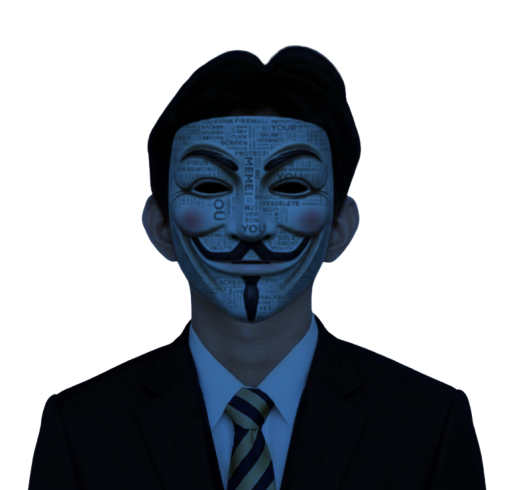
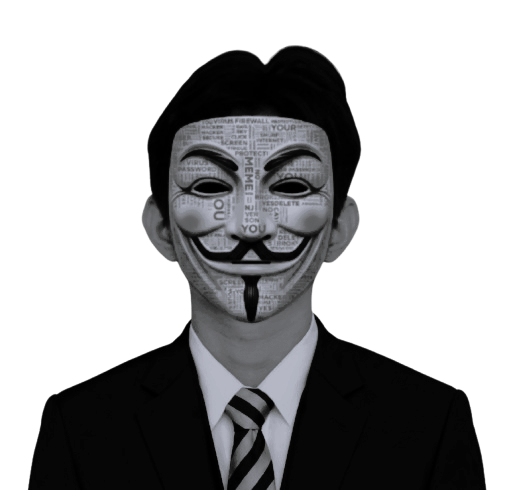
update css dan foto-hecker.png

Changed region(s): [[0.2652, 0.2143, 0.7073, 1.0]]

diff --git a/style.css b/style.css
@@ -452,13 +452,13 @@ img { max-width: 100%; display: block; }
   left: var(--x, 50%);
   width: 10px;
   height: 10px;
-  border: 1.5px solid #0091ff;
+  border: 1.5px solid #d4d7d6;
   border-radius: 50%;
   transform: translate(-50%, -50%);
   pointer-events: none;
   z-index: 9999;
   opacity: 0;
-  box-shadow: 0 0 16px rgba(0, 157, 255, 0.4), inset 0 0 12px rgba(0, 157, 255, 0.4);
+  box-shadow: 0 0 16px rgba(225, 230, 230, 0.4), inset 0 0 12px rgba(207, 209, 208, 0.4);
   transition: opacity 0.3s ease, width 0.3s ease, height 0.3s ease;
 }
 
